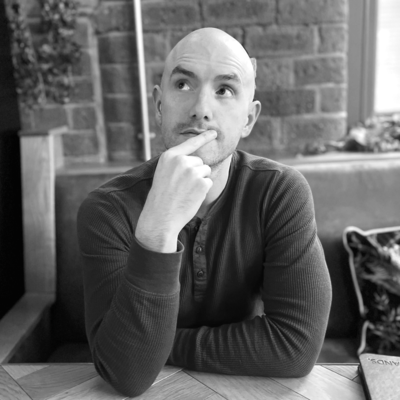
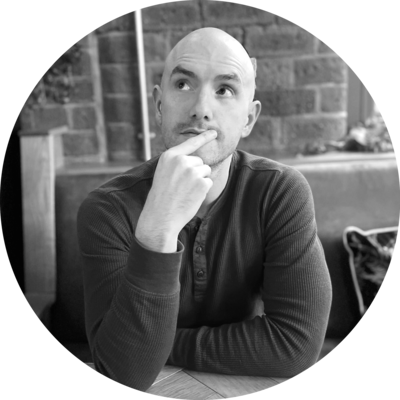
Rounded images & more sizes

diff --git a/index.html b/index.html
@@ -231,8 +231,8 @@
 				<!-- IMAGE -->
 				<div id="personal" class="ui-section-hero--image">
 					<picture>
-						<source type="image/webp" srcset="/images/profile-200.webp 200w, /images/profile-400.webp 400w, /images/profile-600.webp 600w" sizes="(min-width: 600px) 600px, 400px, 200px">
-						<source type="image/png" srcset="/images/profile-200.png 200w, /images/profile-400.png 400w, /images/profile-600.png 600w" sizes="(min-width: 600px) 600px, 400px, 200px">
+						<source type="image/webp" srcset="/images/profile-200.webp 200w, /images/profile-400.webp 400w, /images/profile-600.webp 600w, /images/profile-800.webp 800w" sizes="(min-width: 800px) 800px, 600px, 400px, 200px">
+						<source type="image/png" srcset="/images/profile-200.png 200w, /images/profile-400.png 400w, /images/profile-600.png 600w, /images/profile-800.png 800w" sizes="(min-width: 800px) 800px, 600px, 400px, 200px">
 						<img src="/images/profile-600.png" alt="Picture of Daniel Whymark" title="Daniel Whymark" usemap="#avatarmap" crossorigin="anonymous">
 					</picture>
 					<map name="avatarmap">
